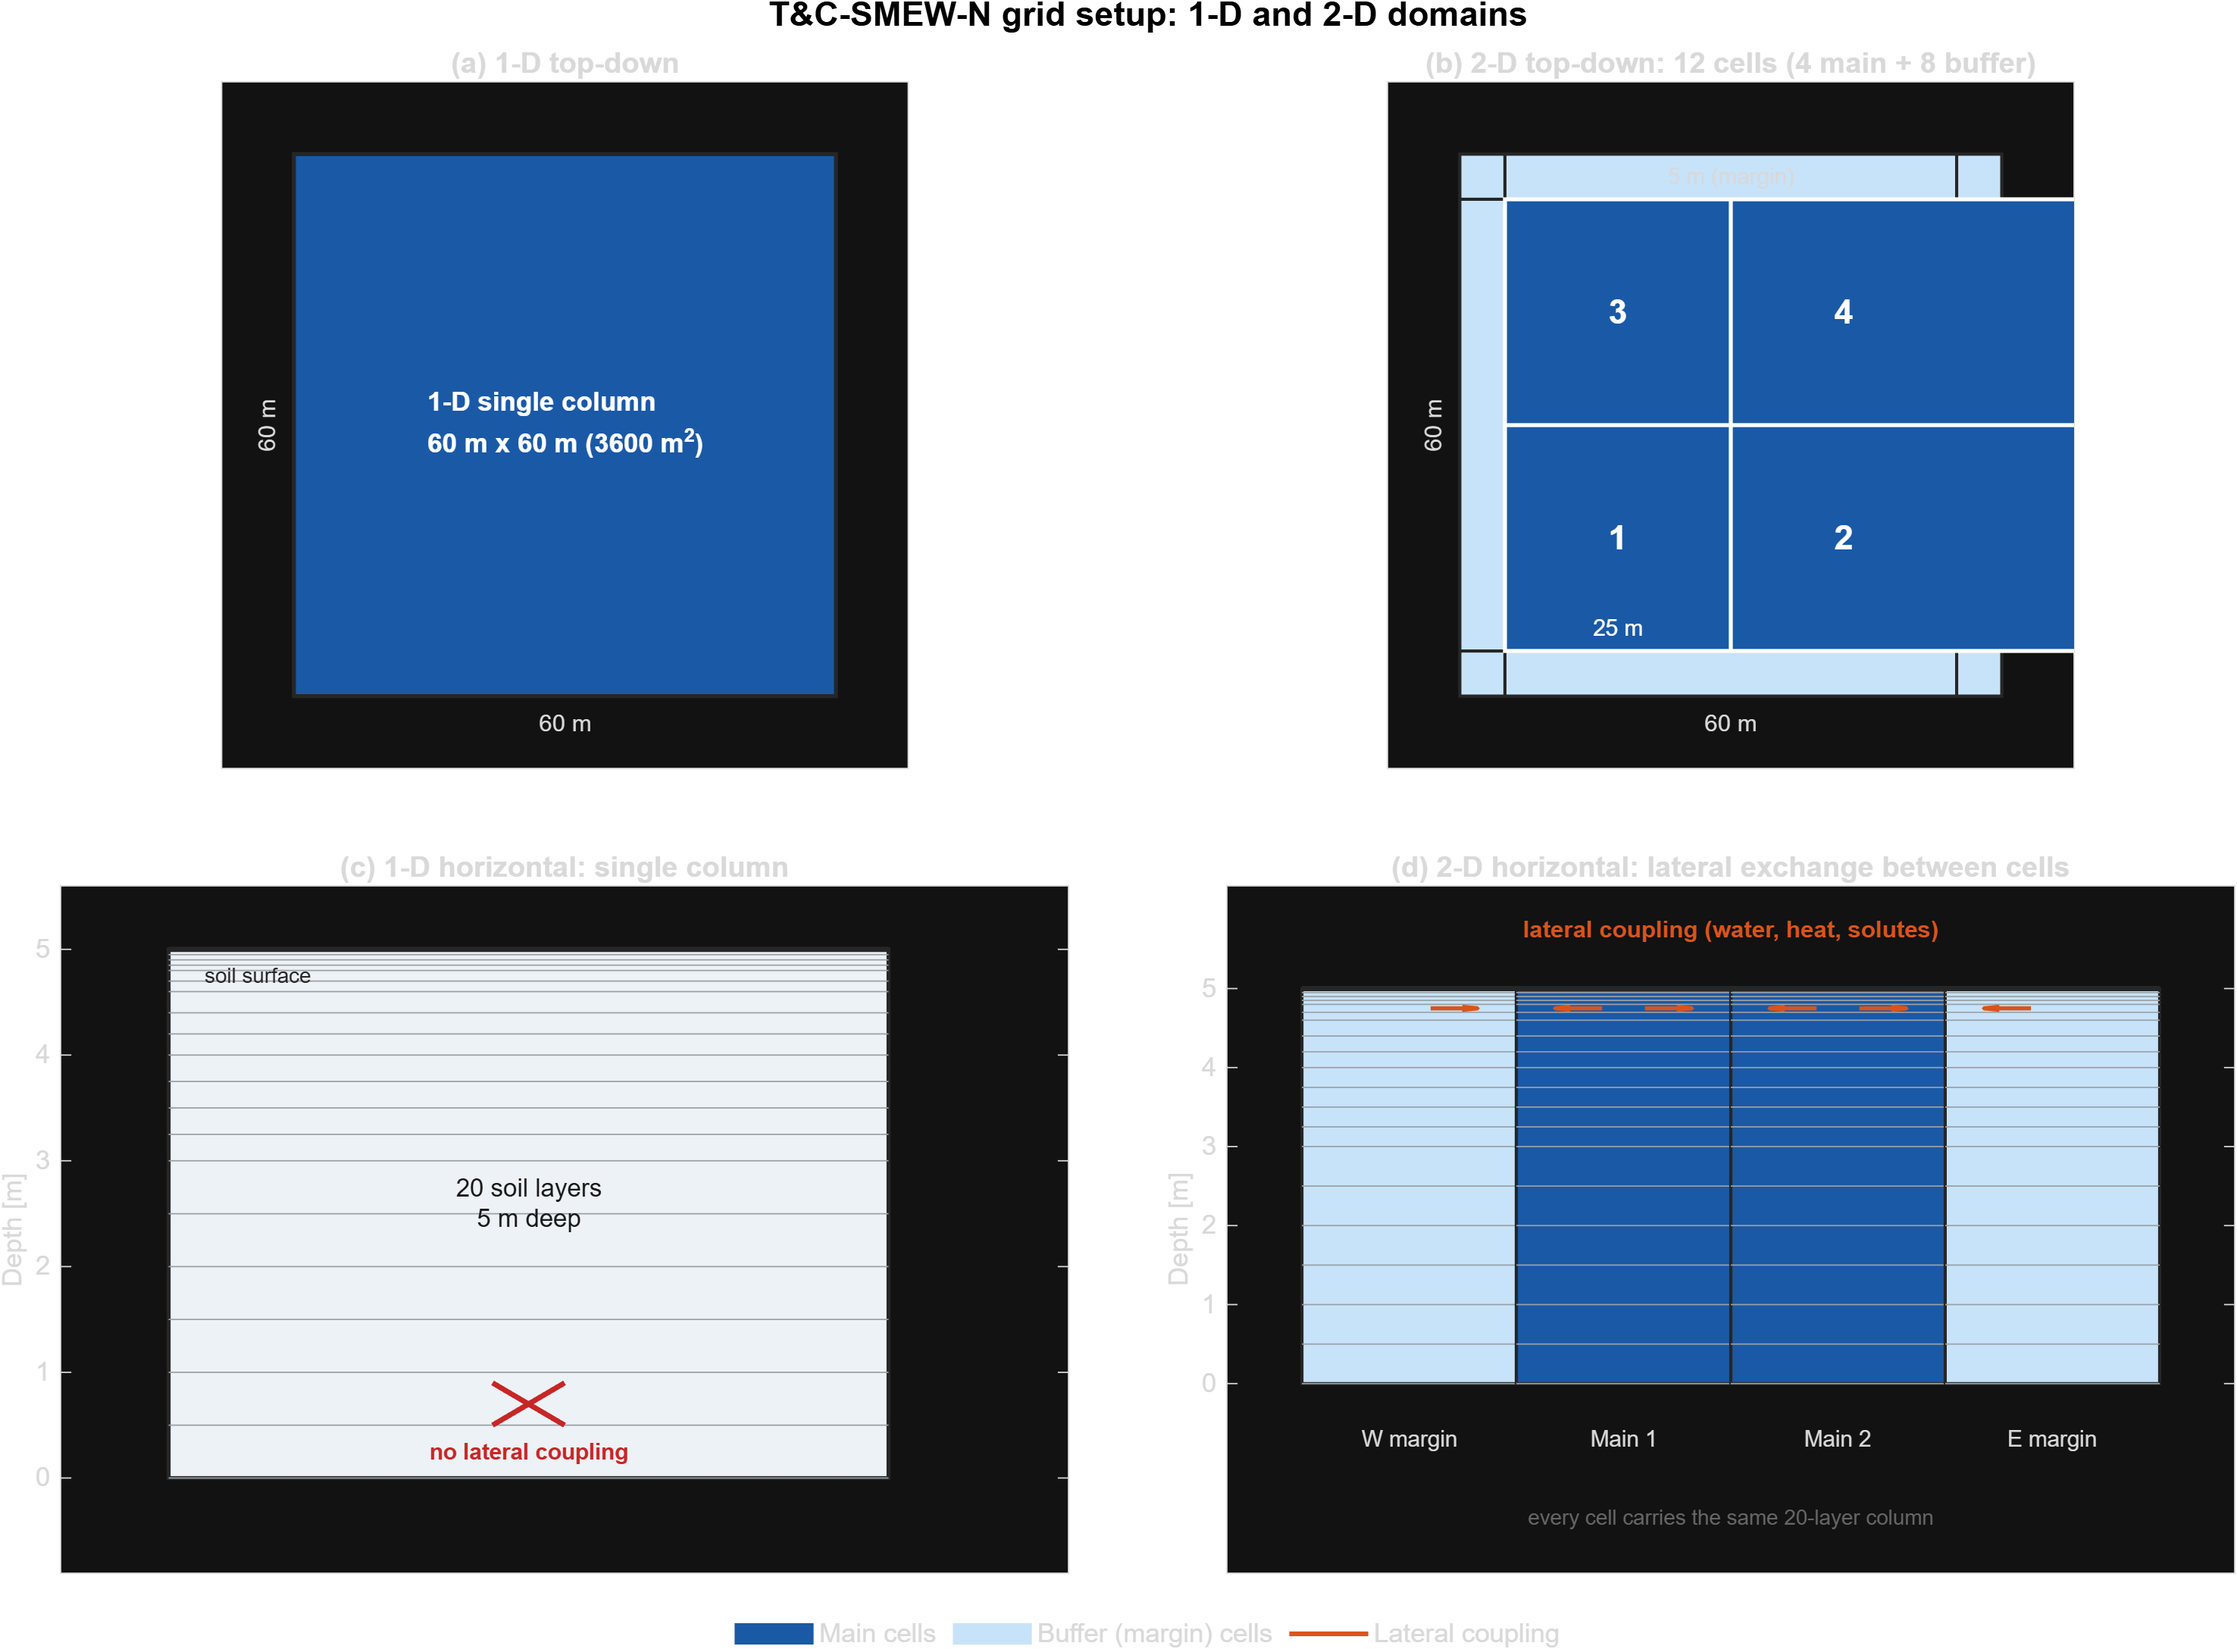
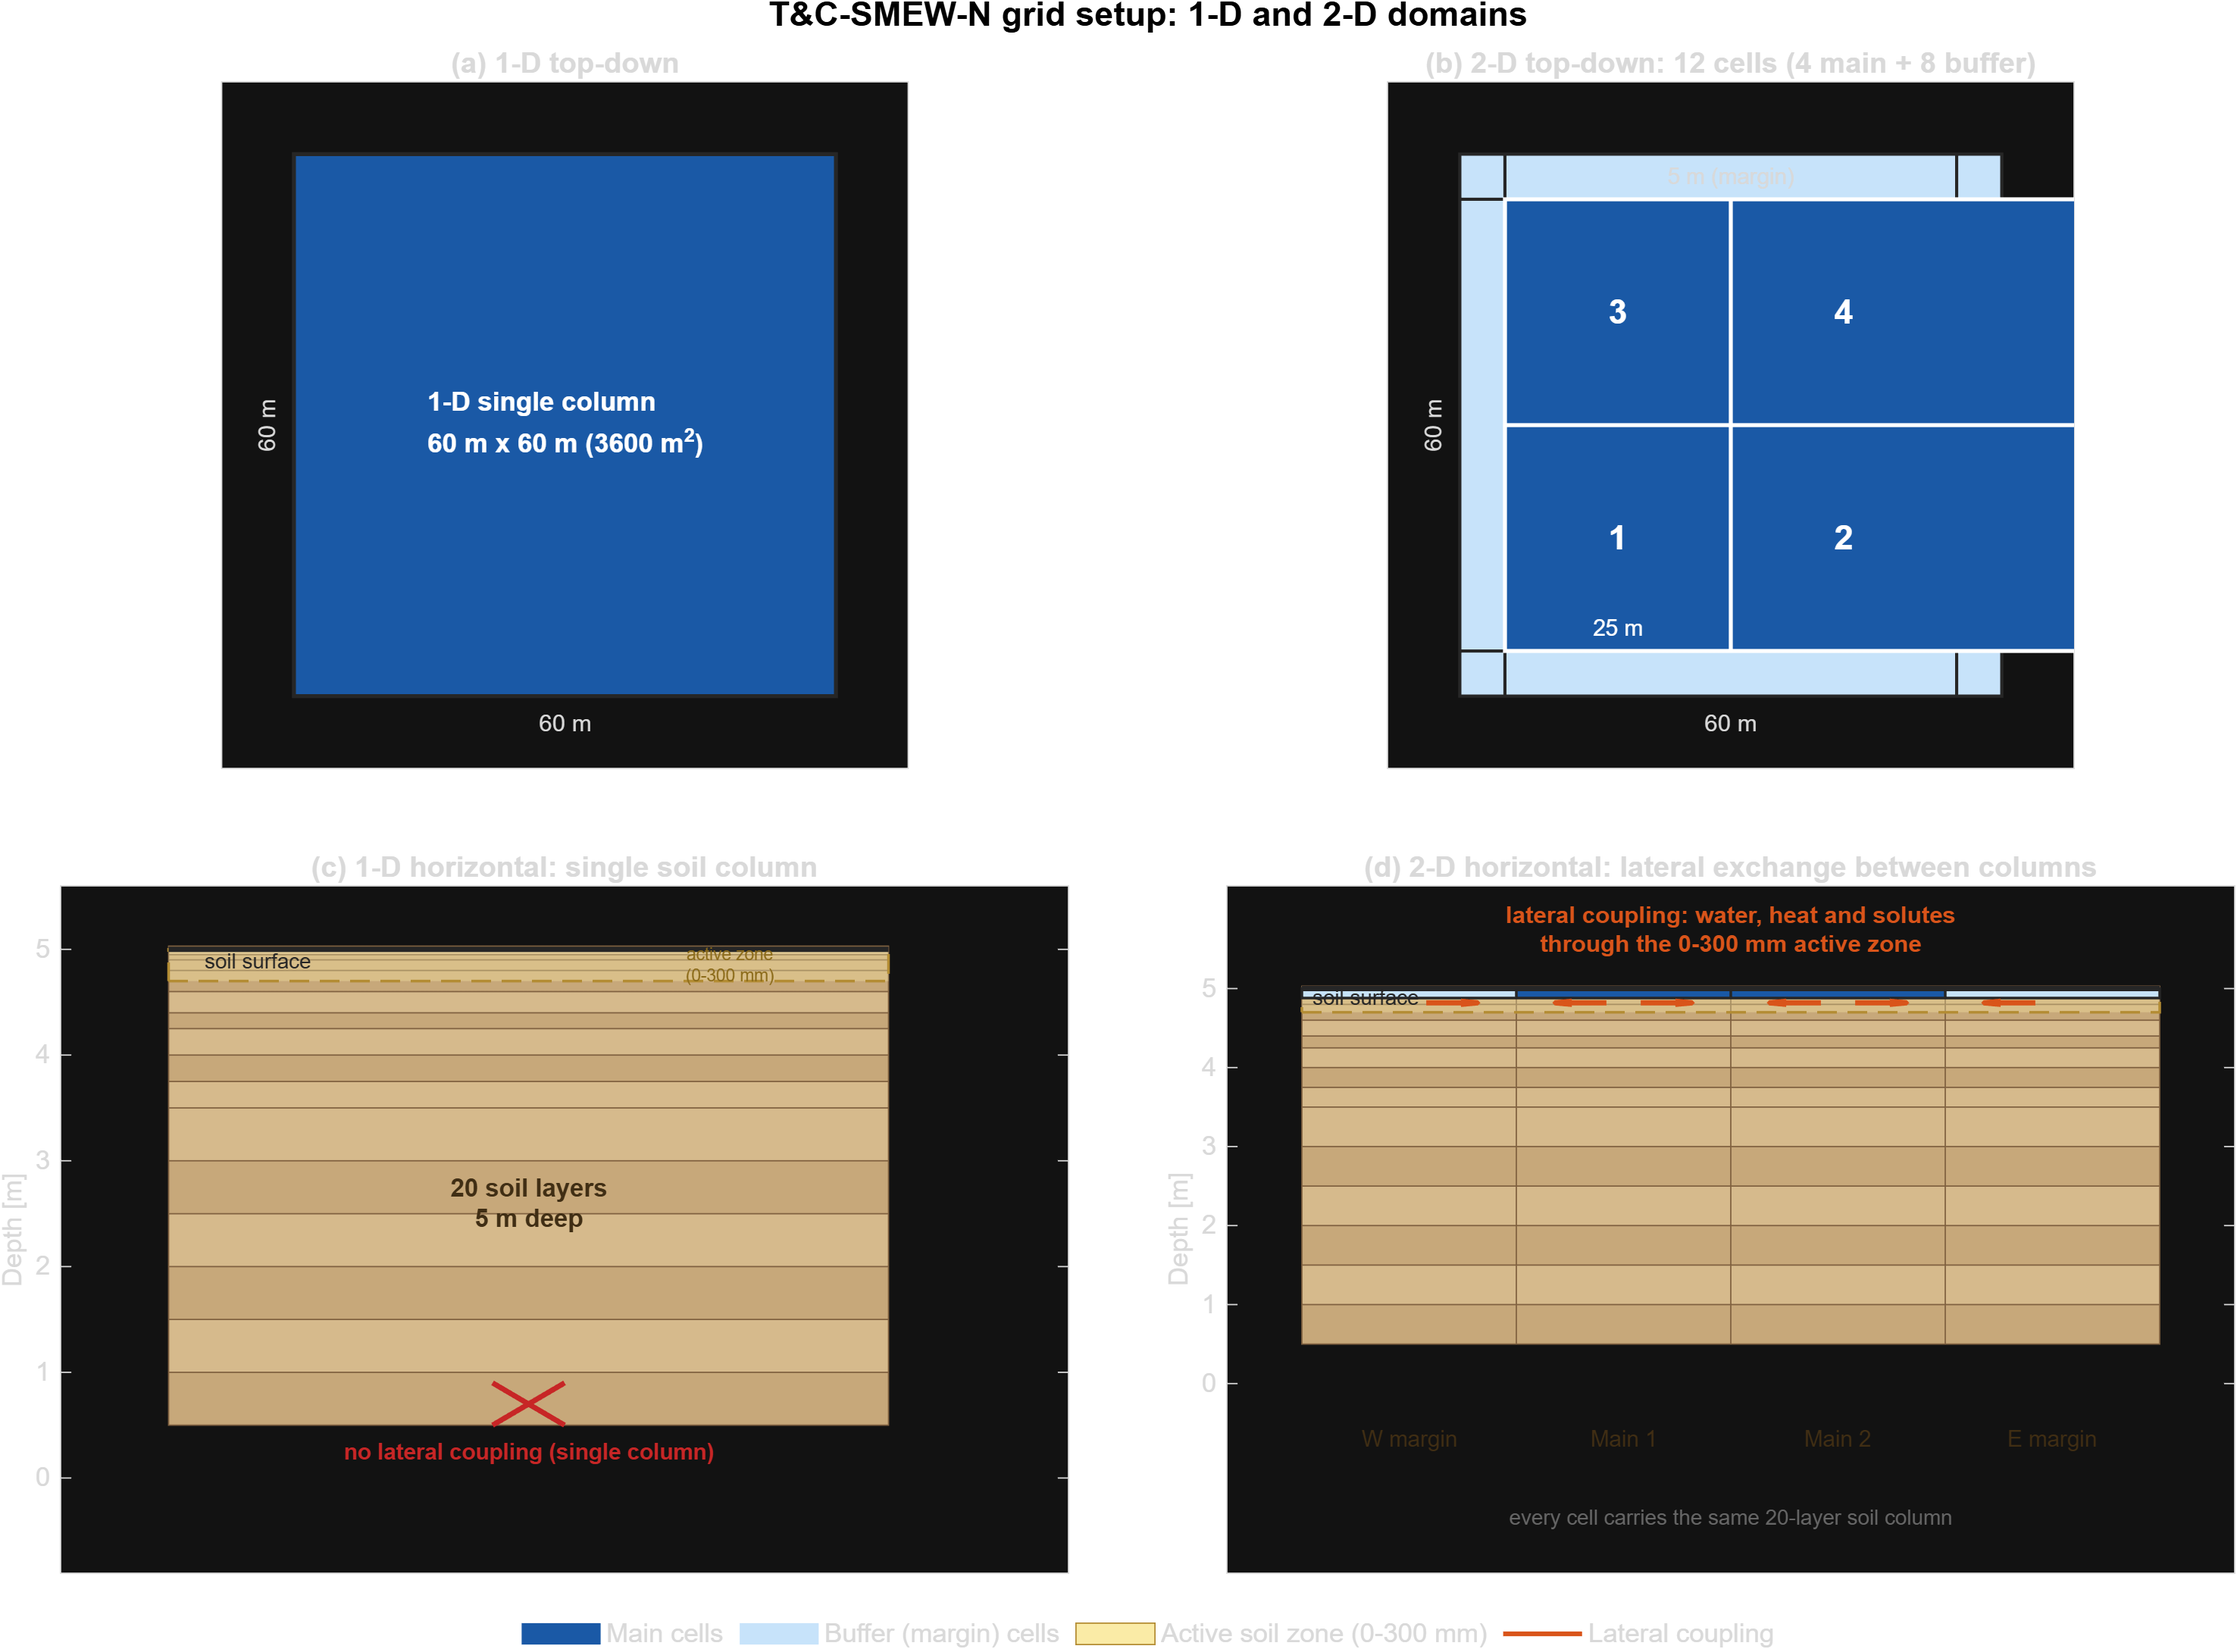
Horizontal grid panels: light-brown soil columns, active-zone band, clearer coupling arrows

diff --git a/v2/Plot_Grid_Setup.m b/v2/Plot_Grid_Setup.m
@@ -36,11 +36,15 @@ Zd = Zs_mm/1000;         % layer boundaries [m]
 nL = numel(Zs_mm)-1;     % number of soil layers
 
 %% colours
-main_c  = [0.10 0.35 0.65];   % dark blue: main cells
-buff_c  = [0.78 0.89 0.98];   % light blue: buffer (margin) cells
-edge_c  = [0.15 0.15 0.15];
-layer_c = [0.60 0.63 0.65];
-arrow_c = [0.85 0.33 0.10];
+main_c      = [0.10 0.35 0.65];   % dark blue: main cells
+buff_c      = [0.78 0.89 0.98];   % light blue: buffer (margin) cells
+edge_c      = [0.15 0.15 0.15];
+soil_c      = [0.84 0.73 0.55];   % light brown: soil column
+soil_alt_c  = [0.78 0.66 0.48];   % darker brown: alternating layers
+soil_line_c = [0.50 0.38 0.25];   % brown layer lines
+active_c    = [0.98 0.92 0.65];   % pale yellow: active soil zone
+active_edge = [0.70 0.55 0.20];
+arrow_c     = [0.85 0.33 0.10];
 
 %% figure
 fig = figure('Color','w','Name','T&C-SMEW-N 1-D and 2-D grid setup');
@@ -102,28 +106,35 @@ title(ax,'(b) 2-D top-down: 12 cells (4 main + 8 buffer)', ...
 %% legend
 h_main  = patch(ax,NaN,NaN,main_c,'EdgeColor','none');
 h_buff  = patch(ax,NaN,NaN,buff_c,'EdgeColor','none');
+h_zone  = patch(ax,NaN,NaN,active_c,'EdgeColor',active_edge);
 h_arrow = plot(ax,NaN,NaN,'Color',arrow_c,'LineWidth',1.8);
-lgd = legend([h_main h_buff h_arrow], ...
-    {'Main cells','Buffer (margin) cells','Lateral coupling'}, ...
+lgd = legend([h_main h_buff h_zone h_arrow], ...
+    {'Main cells','Buffer (margin) cells','Active soil zone (0-300 mm)','Lateral coupling'}, ...
     'Orientation','horizontal','Box','off','FontSize',10);
 lgd.Layout.Tile = 'south';
 
 %% ================= (c) 1-D horizontal =================
 ax = nexttile(tl);
 hold(ax,'on');
-rectangle(ax,'Position',[0 -5 1 5],'FaceColor',[0.93 0.95 0.97], ...
-    'EdgeColor',edge_c,'LineWidth',1.5);
-for i = 2:nL+1
-    plot(ax,[0 1],[-Zd(i) -Zd(i)],'Color',layer_c,'LineWidth',0.5);
+for i = 1:nL
+    fill_c = soil_c;
+    if mod(i,2)==0; fill_c = soil_alt_c; end
+    rectangle(ax,'Position',[0 -Zd(i) 1 Zd(i+1)-Zd(i)], ...
+        'FaceColor',fill_c,'EdgeColor',soil_line_c,'LineWidth',0.5);
 end
+rectangle(ax,'Position',[0 -0.3 1 0.3],'FaceColor',active_c, ...
+    'FaceAlpha',0.35,'EdgeColor',active_edge,'LineWidth',1, ...
+    'LineStyle','--');
 plot(ax,[0 1],[0 0],'Color',edge_c,'LineWidth',2);
-text(ax,0.05,-0.25,'soil surface','FontSize',8,'Color',edge_c);
+text(ax,0.05,-0.12,'soil surface','FontSize',8,'Color',edge_c);
+text(ax,0.78,-0.15,{'active zone','(0-300 mm)'},'FontSize',6.5, ...
+    'Color',[0.55 0.42 0.10],'HorizontalAlignment','center');
 text(ax,0.5,-2.4,sprintf('%d soil layers\n5 m deep',nL), ...
-    'FontSize',9.5,'HorizontalAlignment','center', ...
-    'Color',[0.1 0.1 0.1]);
+    'FontSize',9.5,'HorizontalAlignment','center','FontWeight','bold', ...
+    'Color',[0.25 0.18 0.08]);
 plot(ax,[0.45 0.55],[-4.1 -4.5],'Color',[0.78 0.15 0.15],'LineWidth',2);
 plot(ax,[0.55 0.45],[-4.1 -4.5],'Color',[0.78 0.15 0.15],'LineWidth',2);
-text(ax,0.5,-4.75,'no lateral coupling','FontSize',8.5, ...
+text(ax,0.5,-4.75,'no lateral coupling (single column)','FontSize',8.5, ...
     'HorizontalAlignment','center','Color',[0.78 0.15 0.15], ...
     'FontWeight','bold');
 ax.XLim = [-0.15 1.25]; ax.YLim = [-5.9 0.6];
@@ -131,43 +142,51 @@ ax.XTick = []; ax.YTick = -5:0;
 ax.YTickLabel = {'0','1','2','3','4','5'};
 ax.Box = 'on';
 ylabel(ax,'Depth [m]','FontSize',10);
-title(ax,'(c) 1-D horizontal: single column','FontSize',11);
+title(ax,'(c) 1-D horizontal: single soil column','FontSize',11);
 
 %% ================= (d) 2-D horizontal =================
 ax = nexttile(tl);
 hold(ax,'on');
 col_x = 0:3;
-col_fill = {buff_c,main_c,main_c,buff_c};
+col_cap = {buff_c,main_c,main_c,buff_c};
 col_name = {'W margin','Main 1','Main 2','E margin'};
 for k = 1:4
-    rectangle(ax,'Position',[col_x(k) -5 1 5],'FaceColor',col_fill{k}, ...
-        'EdgeColor',edge_c,'LineWidth',1.2);
-    for i = 2:nL+1
-        plot(ax,col_x(k)+[0 1],[-Zd(i) -Zd(i)],'Color',layer_c, ...
-            'LineWidth',0.5);
+    for i = 1:nL
+        fill_c = soil_c;
+        if mod(i,2)==0; fill_c = soil_alt_c; end
+        rectangle(ax,'Position',[col_x(k) -Zd(i) 1 Zd(i+1)-Zd(i)], ...
+            'FaceColor',fill_c,'EdgeColor',soil_line_c,'LineWidth',0.5);
     end
     text(ax,col_x(k)+0.5,-5.7,col_name{k},'FontSize',8.5, ...
-        'HorizontalAlignment','center');
+        'HorizontalAlignment','center','Color',[0.25 0.18 0.08]);
+end
+rectangle(ax,'Position',[0 -0.3 4 0.3],'FaceColor',active_c, ...
+    'FaceAlpha',0.35,'EdgeColor',active_edge,'LineWidth',1, ...
+    'LineStyle','--');
+for k = 1:4
+    rectangle(ax,'Position',[col_x(k) -0.12 1 0.12], ...
+        'FaceColor',col_cap{k},'EdgeColor',edge_c,'LineWidth',1);
 end
 plot(ax,[0 4],[0 0],'Color',edge_c,'LineWidth',2);
+text(ax,0.05,-0.12,'soil surface','FontSize',8,'Color',edge_c);
 for k = 1:3
     gx = col_x(k)+1;
-    quiver(ax,gx-0.40,-0.25,0.22,0,'Color',arrow_c,'LineWidth',1.6, ...
-        'MaxHeadSize',1.2,'AutoScale','off');
-    quiver(ax,gx+0.40,-0.25,-0.22,0,'Color',arrow_c,'LineWidth',1.6, ...
-        'MaxHeadSize',1.2,'AutoScale','off');
+    quiver(ax,gx-0.42,-0.18,0.24,0,'Color',arrow_c,'LineWidth',2, ...
+        'MaxHeadSize',1.5,'AutoScale','off');
+    quiver(ax,gx+0.42,-0.18,-0.24,0,'Color',arrow_c,'LineWidth',2, ...
+        'MaxHeadSize',1.5,'AutoScale','off');
 end
-text(ax,2,0.75,'lateral coupling (water, heat, solutes)', ...
-    'FontSize',9,'HorizontalAlignment','center','Color',arrow_c, ...
-    'FontWeight','bold');
-text(ax,2,-6.7,'every cell carries the same 20-layer column', ...
+text(ax,2,0.75,{'lateral coupling: water, heat and solutes', ...
+    'through the 0-300 mm active zone'},'FontSize',9, ...
+    'HorizontalAlignment','center','Color',arrow_c,'FontWeight','bold');
+text(ax,2,-6.7,'every cell carries the same 20-layer soil column', ...
     'FontSize',8,'HorizontalAlignment','center','Color',[0.4 0.4 0.4]);
 ax.XLim = [-0.35 4.35]; ax.YLim = [-7.4 1.3];
 ax.XTick = []; ax.YTick = -5:0;
 ax.YTickLabel = {'0','1','2','3','4','5'};
 ax.Box = 'on';
 ylabel(ax,'Depth [m]','FontSize',10);
-title(ax,'(d) 2-D horizontal: lateral exchange between cells', ...
+title(ax,'(d) 2-D horizontal: lateral exchange between columns', ...
     'FontSize',11);
 
 %% ================= save =================
